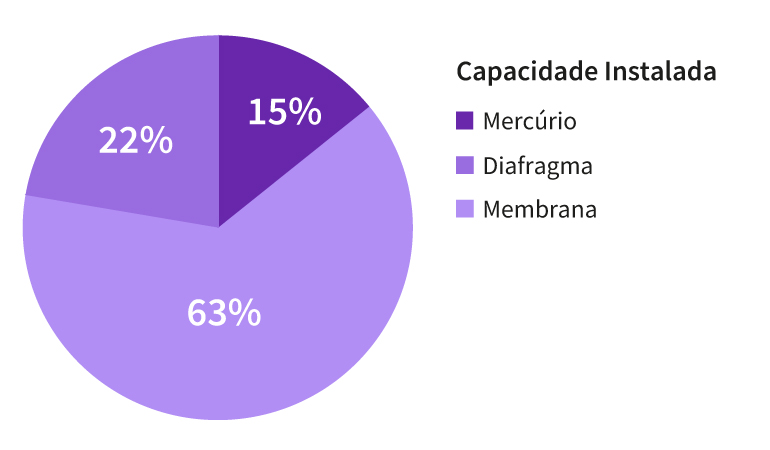
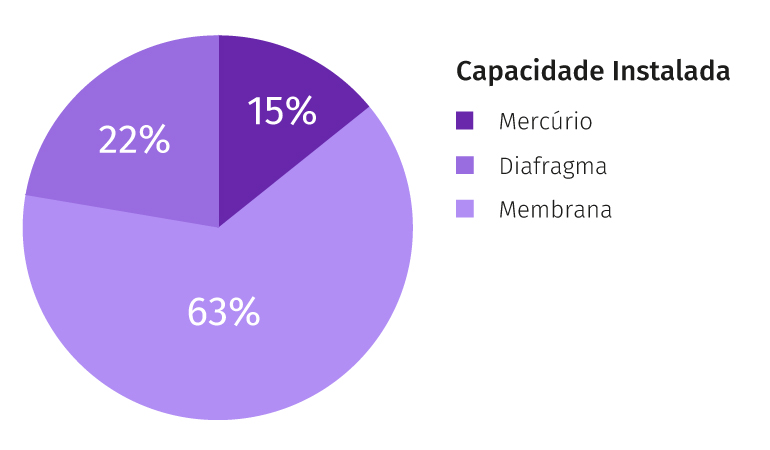
ajustes e atualização de figuras

diff --git a/cap6.php b/cap6.php
@@ -17,7 +17,7 @@ include("components/page-header.php");
 <p>A indústria petroquímica atua principalmente por três rotas que definem os produtos petroquímicos: a produção de olefinas e derivados, de compostos aromáticos e derivados e de gás de síntese e derivados, conforme o esquema representativo da cadeia produtiva mostrado na Figura 6.1. O uso de olefinas merece destaque, sendo o eteno, o propeno, o buteno e o butadieno as matérias-primas de maior importância. Normalmente, altos investimentos devem ser realizados em plantas que utilizam matérias-primas mais pesadas, que requerem craqueamento para obtenção dos produtos petroquímicos. Desta forma se matérias-primas mais leves são empregadas o investimento necessário é menor. Por outro lado, uma maior diversidade de produtos pode ser gerada a partir de matérias-primas mais pesadas.</p>
 <!--FIGURA 6.1-->
 <figure>
-    <img src="img/figura-6-1.jpg" alt="audiodescrição">
+    <img src="img/fig-6-1.jpg" alt="audiodescrição">
     <figcaption><span class="bold">Figura 6.1. </span>Representação esquemática da cadeia produtiva dos produtos petroquímicos básicos.</figcaption>
 </figure>
 <p>Portanto, quanto maior a massa molar da matéria-prima, mais fácil seu craqueamento. Assim, parafinas saturadas e alcanos são mais fáceis de serem craqueados. Contudo, o craqueamento pode ser conduzido em qualquer tipo de matéria-prima visando alcançar um máximo de produção de olefinas e aromáticos associada a uma alta seletividade, além de se obter um mínimo de moléculas lineares pequenas, metano e hidrocarbonetos lineares com mais de cinco átomos de carbono. Logo, os tipos de produtos petroquímicos produzidos são altamente influenciados pela natureza dos hidrocarbonetos, pela temperatura de reação e pelo tempo de residência no processo de quebra. Os produtos finais da indústria petroquímica podem ser agrupados em seis categorias: plásticos, elastômeros, fibras, fertilizantes, solventes e especialidades.</p>
@@ -32,7 +32,7 @@ include("components/page-header.php");
 <p>As reações químicas, da substância eteno, são responsáveis pela produção de cerca de 30% de todos os produtos petroquímicos, sendo o óxido de etileno e o dicloroetano os compostos mais importantes. Os derivados do eteno são usados nas mais diversas aplicações, tais como: plásticos, anticongelantes, solventes, material de vestuário, entre outras. Dentre as reações possíveis a ser realizadas com o eteno destacam-se: oxidação, carbonilação oxidativa, cloração, hidratação, alquilação, oligomerização e polimerização. Dois exemplos de sequência de produção partindo do eteno são: a produção do óxido de etileno e subsequente obtenção de outros produtos comerciais como etilenoglicois, etanolaminas e alcoóis etoxilados; e a produção do 1,2-dicloroetano, pela cloração direta do eteno, para obtenção do cloreto de vinila e posterior polimerização e obtenção do poli(cloreto de vinila), PVC. A cadeia produtiva do eteno é mostrada por meio do esquema apresentado na Figura 6.2.</p>
 <!--FIGURA 6.2 -->
 <figure>
-    <img src="img/figura-6-2.jpg" alt="audiodescrição">
+    <img src="img/fig-6-2.jpg" alt="audiodescrição">
     <figcaption><span class="bold">Figura 6.2. </span>Representação esquemática da cadeia produtiva do eteno.</figcaption>
 </figure>
 
@@ -41,7 +41,7 @@ include("components/page-header.php");
 <p>Praticamente todas as reações conduzidas com o eteno podem ser realizadas com o propeno. Merece destaque as reações de: oxidação, cloração, hidratação, alquilação, adição de ácidos orgânicos, oxiacilação (reação com ácido acético e oxigênio), hidroformilação (reação com \(CO\) e hidrogênio), metátese ou desproporcionação catalítica (reação de conversão do propeno a outras olefinas, de massa molar distinta). São exemplos de aplicações de compostos obtidos a partir do propeno: a produção de plásticos e resinas a partir da acrilonitrila (obtida da reação do propeno com amônia e oxigênio); e a produção de glicerol e propileno glicol, para fabricação de espumas de poliuretano, resinas de poliéster, cosméticos, fluidos de freio, plastificantes, xaropes e detergentes, a partir do óxido de propileno (obtido na reação do propeno com ácido hipocloroso e \(Ca(OH)_2\) ou através de epoxidação). A cadeia produtiva do propeno é mostrada por meio do esquema apresentado na Figura 6.3.</p>
 <!--FIGURA 6.3-->
 <figure>
-    <img src="img/figura-6-3.jpg" alt="audiodescrição">
+    <img src="img/fig-6-3.jpg" alt="audiodescrição">
     <figcaption><span class="bold">Figura 6.3. </span>Representação esquemática da cadeia produtiva do propeno.</figcaption>
 </figure>
 
@@ -80,7 +80,7 @@ include("components/page-header.php");
 <p>Os detergentes foram desenvolvidos como substitutos do sabão e rapidamente ganharam mercado, especialmente após segunda guerra mundial. Os detergentes são produzidos na indústria utilizando vários produtos procurando melhorar suas propriedades <span class="bold">tensoativas</span>. Os tensoativos, também chamados de <span class="bold">surfactantes</span>, são a matéria-prima principal dos detergentes e são derivados do petróleo. Os tensoativos possuem a propriedade de modificar as características físico-químicas de sua superfície ou das interfaces de separação com outros meios. Quando são dissolvidos ou dispersos em um meio líquido, são permanecem preferencialmente na interface, modificando sua tensão interfacial. Os tensoativos são também conhecidos como compostos <span class="bold">anfifílicos</span>, devido à existência de regiões de polaridades distintas em suas moléculas, uma cabeça polar e uma cauda apolar, conforme representação esquemática mostrada na Figura 6.4. </p>
 <!--FIGURA 6.4-->
 <figure>
-    <img src="img/figura-6-4.jpg" alt="audiodescrição">
+    <img src="img/fig-6-4.jpg" alt="audiodescrição">
     <figcaption><span class="bold">Figura 6.4.</span>Molécula de tensoativo e sua representação esquemática mostrando a cabeça polar e a cauda apolar.</figcaption>
 </figure>
 <p>A atuação das moléculas tensoativas pode ser muito diferente dependendo da natureza química e as estrutura das fases em contato, bem como em função das condições impostas ou existentes em suas aplicações. Os tensoativos podem ser classificados como <span class="bold">catiônicos</span>, quando ao se ionizarem formam cátions, aniônicos, quando ao se ionizarem formam ânions, <span class="bold">não-iônicos</span>, aqueles que não ionizam em presença de água, sua solubilidade se deve a formação de ligações de hidrogênio com a água, e <span class="bold">anfóteros</span>, aqueles que contêm sua estrutura tanto o radical ácido como o básico.</p>
@@ -102,13 +102,13 @@ include("components/page-header.php");
 <p>Os polímeros podem ser classificados de muitas formas diferentes, dependendo da característica que está sendo analisada. Com relação à estrutura química os polímeros podem ser classificados como <span class="bold">lineares</span> ou <span class="bold">ramificados</span>. As ramificações podem ser curtas ou longas, um grande número de ramificações podem gerar estruturas <span class="bold">dendríticas</span> ou mesmo um <span class="bold">polímero reticulado</span>, formando uma macromolécula única. Estas estruturas são esquematizadas na Figura 6.5.</p>
 <!-- FIGURA 6.5 -->
 <figure>
-    <img src="img/figura-6-5.jpg" alt="audiodescrição">
+    <img src="img/fig-6-5.jpg" alt="audiodescrição">
     <figcaption><span class="bold">Figura 6.5. </span>Classificação dos polímeros segundo sua estrutura química.</figcaption>
 </figure>
 <p>Ainda com relação a estrutura química os polímeros podem ser classificados como <span class="bold">homopolímeros</span>, quando há apenas um tipo de mero envolvido na formação dos polímeros, e <span class="bold">copolímeros</span>, quando há dois ou mais tipos de meros envolvidos na formação dos polímeros. Os copolímeros ainda podem ser classificados, com relação a sua estrutura, conforme mostrado na Figura 6.6. </p>
 <!-- FIGURA 6.6 -->
 <figure>
-    <img src="img/figura-6-6.jpg" alt="audiodescrição">
+    <img src="img/fig-6-6.jpg" alt="audiodescrição">
     <figcaption><span class="bold">Figura 6.6. </span>Classificação dos copolímeros segundo sua estrutura.</figcaption>
 </figure>
 <p>Com relação as propriedades térmicas os polímeros podem ser classificados como <span class="bold">termofixos</span> ou <span class="bold">termorrígidos</span> ou <span class="bold">termoestáveis</span>, que não apresentam temperatura de fusão, degradam antes de atingir a temperatura de fusão e termoplásticos, que apresentam temperatura de fusão. Com relação às propriedades mecânicas os polímeros podem ser classificados em <span class="bold">elastômeros</span> ou <span class="bold">borrachas</span>, que apresentam grande quantidade de deformação não permanente, <span class="bold">plásticos</span>, que apresentam grande quantidade deformação permanente, e <span class="bold">fibras</span>, que tem razão de aspecto (divisão da área pelo comprimento, a/l) maior do que 100. Os elastômeros são hidrocarbonetos insaturados de alta massa molar com cadeias longas e flexíveis que fornecem a propriedade de ser esticado. Os plásticos apresentam alguma rigidez, alta massa molar, são moldáveis sob pressão e podem ser termoplásticos ou termofixos. As fibras possuem baixa elongação e alta resistência à deformação, portanto, as fibras possuem elasticidade menor que a dos plásticos e elastômeros.</p>

diff --git a/cap7.php b/cap7.php
@@ -190,7 +190,7 @@ include("components/page-header.php");
 <p>A Figura 7.1 mostra a evolução da produção brasileira de Celulose e Papel nas últimas 4 décadas. Nos anos de 1970 o Brasil produzia em média 800 mil toneladas de celulose e 1 milhão e 100 mil toneladas de papel. Entre as décadas de 1990 e 2007 ocorreu um crescimento significativo passando de 4,4 e 4,7 milhões de toneladas para 12,0 e 9,0 milhões de toneladas de Celulose e Papel, respectivamente. Desde então, o crescimento anual se encontra ligeiramente constante, sendo de 7,5% para Celulose e 5,6% para o Papel.</p>
 <!--FIGURA 7.1 -->
 <figure>
-    <img src="img/figura-7-1.jpg" alt="audiodescrição">
+    <img src="img/fig-7-1.jpg" alt="audiodescrição">
     <figcaption><span class="bold">Figura 7.1. </span>Evolução da produção brasileira de Celulose e Papel nos últimos 40 anos.</figcaption>
 </figure>
 <p>Nos dias atuais não há notícias de derrubada de árvores nativas para fabricação de papel, sendo que informações da Bracelpa e orgãos internacionais mostram que 100% da madeira utilizada têm origem em florestas plantadas de Eucalipto e Pinus. Dados obtidos pela Bracelpa mostram que em 1980 a produtividade média (m<sup>3</sup>/ha/ano) de madeira para celulose era de 24 para Eucalipto e 19 para Pinus. Em 2009 a produtividade passou para 44 para Eucalipto e 38 para Pinus. Esse valores correspondem a 83% e 100% de crescimento para Eucalipto e Pinus, respectivamente.</p>
@@ -258,7 +258,7 @@ include("components/page-header.php");
 <p>Na 3ª semana de fevereiro de 2012, a balança comercial registrou superávit de US$ 370 milhões, resultado de exportações no valor de US$ 4,703 bilhões e importações de US$ 4,333 bilhões. No mês, as exportações alcançaram US$ 12,394 bilhões, e as importações US$ 10,673 bilhões, com saldo positivo de US$ 1,721 bilhão. No ano, as exportações somam US$ 28,535 bilhões, as importações, US$ 28,106 bilhões, com saldo positivo de US$ 429 milhões, segundo dados divulgados pela Secex (Secretária de Comércio Exterior). A Figura 7.2 apresenta os dados relativos ao destino das exportações de Celulose brasileira nos anos de 2010 e 2011. Já a exportações em Papel a maior parte é centrada na América Latina, dados divulgados pelo Secex mostram que nos anos de 2010 e 2011 57-58% do total de exportações foram para essa região do globo.</p>
 <!-- FIGURA 7.2 -->
 <figure>
-    <img src="img/figura-7-2.jpg" alt="audiodescrição">
+    <img src="img/fig-7-2.jpg" alt="audiodescrição">
     <figcaption><span class="bold">Figura 7.2. </span>Destino das exportações de Celulose Brasileira. Fonte: Secex.</figcaption>
 </figure>
 
@@ -491,13 +491,13 @@ include("components/page-header.php");
 
 <!-- FIGURA 7.3 -->
 <figure>
-    <img src="img/figura-7-3.jpg" alt="audiodescrição">
+    <img src="img/fig-7-3.jpg" alt="audiodescrição">
     <figcaption><span class="bold">Figura 7.3.</span>Destino do papel produzido no Brasil entre os anos de 2009-2010. Fonte: Bracelpa.</figcaption>
 </figure>
 
 <!-- figura 7.4 -->
 <figure>
-    <img src="img/figura-7-4.jpg" alt="audiodescrição">
+    <img src="img/fig-7-4.jpg" alt="audiodescrição">
     <figcaption><span class="bold">Figura 7.4. </span>Comparação do consumo de papel e taxa de recuperação. Fonte: Bracelpa.</figcaption>
 </figure>
 
@@ -565,13 +565,13 @@ include("components/page-header.php");
 <p>A obtenção de polpa celulósica de Eucalipto é quase totalmente, através do processo alcalino <em>Kraft</em> ou sulfato. Esta técnica utiliza soluções com hidróxido de sódio e sulfato de sódio misturado a cavacos de madeira em altas temperaturas. Consiste na degradação da lignina, separando as fibras e deixando nas mesmas, principalmente a celulose e as hemiceluloses, para serem usadas na fabricação de papel. As reações que ocorrem no processo <em>Kraft</em> de polpação são complexas e não totalmente entendidas. A Figura 7.5 mostra uma representação esquemática do processo de polpação.</p>
 <!-- FIGURA 7.5 -->
 <figure>
-    <img src="img/figura-7-5.jpg" alt="audiodescrição">
+    <img src="img/fig-7-5.jpg" alt="audiodescrição">
     <figcaption><span class="bold">Figura 7.5. </span>Representação esquemática do processo de polpação.</figcaption>
 </figure>
 <p>A lignina incrustada nos cavacos de madeira é quimicamente quebrada em fragmentos pelos íons hidroxilas \((OH^-)\) e hidrossulfitos \((SH^-)\) presentes no licor de polpação. Os fragmentos da lignina são então dissolvidos como íons fenolato ou carboxilato. Uma parte dos carboidratos (polioses) é também atacada quimicamente e dissolvida. Em geral, 80% da lignina e 50% das polioses são dissolvidas durante um cozimento típico de polpa branqueável. Por outro lado, ocorre uma menor dissolução de outros tipos de carboidratos, cerca de 10%. A Figura 7.6 mostra um esquema da metodologia do processo utilizado na preparação da polpa de papel.</p>
 <!-- FIGURA 7.6 -->
 <figure>
-    <img src="img/figura-7-6.jpg" alt="audiodescrição">
+    <img src="img/fig-7-6.jpg" alt="audiodescrição">
     <figcaption><span class="bold">Figura 7.6.</span>Esquema mostrando a metodologia do processo utilizado na preparação da polpa de papel.</figcaption>
 </figure>
 <p>Existem dois métodos de descorticar as toras;</p>

diff --git a/cap8.php b/cap8.php
@@ -9,7 +9,36 @@ include("components/page-header.php");
 <p>A indústria de alimentos teve sua origem nas fazendas, sítios e plantações com a produção e processamento em pequena escala. Assim sendo, no início, os produtos apresentavam um gênero mais caseiro e sem padrões de produção definidos. Contudo, a massificação e a busca por produtos pré-processados levaram a um aumento da especialização e a otimização da produção alimentar. Essa otimização só foi possível com a instituição de padrões e graus de qualidade nas vilas e comunidades, tais como os instituídos no processamento e distribuição do leite, na moagem de grãos, nos métodos de conservação e distribuição de alimentos perecíveis (carnes, frutas e legumes), dentre outros.</p>
 <p>Hoje em dia, toda a produção alimentar é centralizada em grandes centros ou indústrias monoprodutoras, que compram boa parte da matéria-prima das antigas fontes manufatureiras. Consequentemente, a indústria de alimentos transforma os produtos das fazendas em materiais apropriados ao consumo a partir do seu processamento. Processamento este que, como será apresentado adiante, é muitas vezes semelhante ao processamento de substâncias químicas, logo, químicos, engenheiros químicos e tecnólogos são tão importantes no seu desenvolvimento, quantos os engenheiros agrônomos e de alimentos.</p>
 <p>Atualmente, a Associação Brasileira das Indústrias da Alimentação (ABIA) concentra a produção nacional de alimentos industrializados nos seguintes setores:</p>
-
+<ul>
+    <li>Alimentos calóricos (Protéicos)</li>
+    <li>Açúcar</li>
+    <li>Café</li>
+    <li>Chá</li>
+    <li>Carnes, embutidos, etc. </li>
+    <li>Cereais</li>
+    <li>Chocolates, cacau e balas</li>
+    <li>Condimentos</li>
+    <li>Desidratados e liofilizados ·</li>
+    <li>Bebidas</li>
+    <li>Alcoólicas</li>
+    <li> Refrigerantes</li>
+    <li>Sucos (concentrados e pós)</li>
+    <li>Vinagres</li>
+    <li>Aromatizantes</li>
+    <li>Embalagens</li>
+    <li>Matéria-prima para alimentos</li>
+    <li>Diversos</li>
+    <li>Dietéticos</li>
+    <li>Frutas e legumes</li>
+    <li>Lacticínios e derivados</li>
+    <li>Massas, biscoitos, congêneres</li>
+    <li>Óleos, gorduras, azeites, margarinas e maioneses</li>
+    <li>Pescado e derivados</li>
+    <li>Sopas e caldos</li>
+    <li>Sorvetes</li>
+    <li>Supergelados</li>
+    <li>Afins</li>
+</ul>
 <p>A seguir serão apresentadas as principais fases do processamento de alimentos que serão exemplificadas a partir da tecnologia de produção de dois setores produtivos. </p>
 
 <h2 id="8.2">8.2. Processamento de alimentos</h2>
@@ -31,13 +60,13 @@ include("components/page-header.php");
 <p>Dentre os processos físicos empregados no beneficiamento de produtos alimentícios podemos destacar a operação de moagem. A moagem é empregada para promover o aumento da superfície de contato da matéria-prima, facilitando o desenvolvimento das etapas posteriores, tais como, a extração, a secagem e a homogeneização. Ela é muito empregada na moagem de grãos, como o milho, a soja e a mostarda, usando um equipamento chamado de moinho. A Figura 8.1 apresenta os principais modelos de moinhos usados no processamento de alimentos.</p>
 <!-- FIGURA 8.1 -->
 <figure>
-    <img src="img/figura-8-1.jpg" alt="audiodescrição">
+    <img src="img/fig-8-1.jpg" alt="audiodescrição">
     <figcaption><span class="bold">Figura 8.1. </span>Principais modelos de moinhos usados no processamento de alimentos: (a) Moinho de bolas, (b) Moinho de martelos e (c) Moinho de pedras.</figcaption>
 </figure>
 <p></p>
 <!-- FIGURA 8.2 -->
 <figure>
-    <img src="img/figura-8-2.jpg" alt="audiodescrição">
+    <img src="img/fig-8-2.jpg" alt="audiodescrição">
     <figcaption><span class="bold">Figura 8.2. </span>Representação esquemática de uma prensa mecânica. </figcaption>
 </figure>
 <p>Esse processo é bastante empregado para a extração de óleo de sementes e pode ocorrer de forma mista, envolvendo uma pré-prensagem com posterior extração com solvente.</p>

diff --git a/cap4.php b/cap4.php
@@ -64,7 +64,7 @@ include("components/page-header.php");
 <h3>4.2.1. Redução do Minério no alto-forno</h3>
 <p>A redução do minério, na forma de óxido, utilizando o carbono, proveniente do coque, é realizada em um forno específico para esta atividade chamado <em>alto-forno</em>. O alto-forno é um reator tubular vertical onde a redução ocorre de forma contínua, sendo alimentado com carga sólida na parte superior que entra em contato com o ar pré-aquecido na parte inferior, conforme mostrado na Figura 4.2. No Estado do Espírito Santo a antiga Companhia Siderúrgica do Tubarão (CST), atual Arcelor Mittal, opera com este tipo de processo para a redução do ferro.</p>
 <figure>
-    <img src="img/figura-4-2.jpg" alt="audiodescrição">
+    <img src="img/fig-4-2.jpg" alt="audiodescrição">
     <figcaption><span class="bold">Figura 4.2. </span>Esquema de um alto-forno mostrando a distribuição de temperatura e as principais reações em cada parte.</figcaption>
 </figure>
 <p>A carga de um alto-forno é composta principalmente por minério de ferro, coque e fundente. O <span class="bold">minério de ferro</span> é, normalmente, composto por hematita ou uma mistura de hematita e magnetita, contendo cerca de 40 a 60% de ferro. Este minério costuma conter cerca de 10% de ganga, cujo componente principal é a sílica \((SiO_2)\). O <span class="bold">coque</span>, obtido da destilação prévia da hulha ou de outro carvão mineral, é o fornecedor de carbono, para as reações de redução do ferro, além de desempenhar a função de combustível. Já o <span class="bold">fundente</span>, tem a função de baixar o ponto de fusão da escória e, geralmente, é composto por calcário \((CaCO_3)\) que é calcinado no interior do alto-forno formando cal \((CaO)\).</p>
